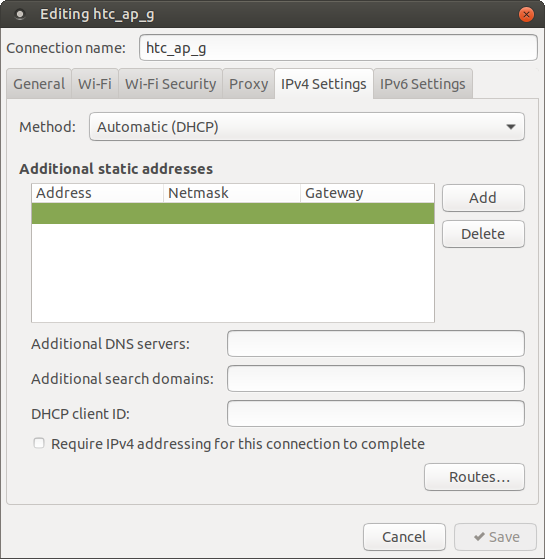
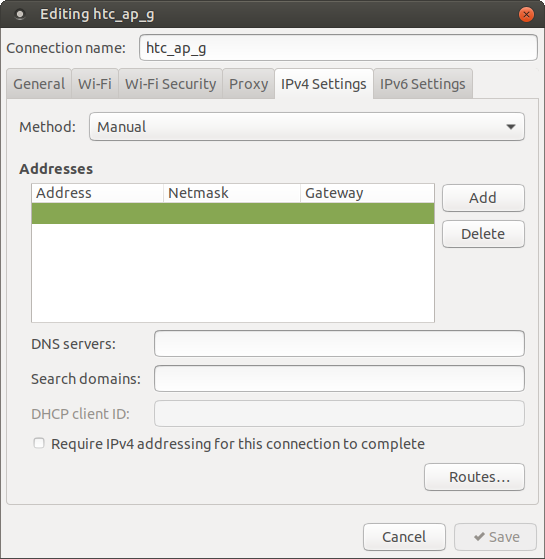
change

diff --git a/ros_robot_programing/remote_settings.html b/ros_robot_programing/remote_settings.html
@@ -89,13 +89,12 @@ nameserver ***.**.**.**
     <div style="text-align:center">
       <img src="images/remote_settings_img_a4.png">
     </div>
-    <p>[IPv4 Settings]タグを選択し、[Add]ボタンをクリックする。</p>
-    <div style="text-align:center">
-      <img src="images/remote_settings_img_a5.png">
-    </div>
     <p>
+      [IPv4 Settings]タグを選択し、MethodでManualを選択する。
+      [Add]ボタンをクリックして、
       先ほど調べたIPアドレス、ネットマスク（24）、ゲートウェイ、DNSサーバーを
-      入力して、[Save]ボタンをクリックする。
+      入力する。
+      全て入力できたら[Save]ボタンをクリックする。
     </p>
     <div style="text-align:center">
       <img src="images/remote_settings_img_a6.png">
